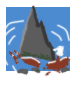
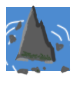
misc
1. refactor: instead of a bool "isWon", there is now an enum "GameState"
2. gameplay: instead of toggling the prevtile treasure when going
between two islands with treasure, it's the currenttile treasure
who is gonna be toggled
3. previously, hazard tiles would prevent moves; now, you can move
to an island with a hazard in its path, and this will wreck
the ship and lsoe the game
4. gameplay: add a "danger!" sprite on hazards tiles on path to
treasure islands

Changed region(s): [[0.1053, 0.4884, 0.9474, 0.8837], [0.1053, 0.3953, 0.2368, 0.5116], [0.1842, 0.2326, 0.2895, 0.3721]]

diff --git a/Board.cs b/Board.cs
@@ -5,6 +5,7 @@ using Godot;
 namespace Game
 {
   public enum Direction { Up, Down, Left, Right }
+  public enum GameState { Playing, Won, Lost }
 
   public partial class Board : Node2D
   {
@@ -12,6 +13,8 @@ namespace Game
     private int columns;
     [Export]
     private int rows;
+    [Export]
+    public Tile startingTile;
     [Export]
     public bool useBot = false;
     [Export]
@@ -22,7 +25,7 @@ namespace Game
     public int HammerType { get; set; }
 
     public bool IsReady { get; private set; } = false;
-    public bool IsWon { get; private set; } = false;
+    public GameState GameState { get; private set; } = GameState.Playing;
     public IEnumerable<Direction> Moves { get; private set; } = new List<Direction>();
 
     private Tile currentTile;
@@ -47,13 +50,14 @@ namespace Game
         return;
       }
 
-      PrepareBoard();
-
-      var tilesWithActiveTreasures = tilesWithTreasures.Where(t => t.HasActiveTreasure());
-      foreach (var tile in tilesWithActiveTreasures)
+      if (startingTile == null)
       {
-        tile.Select();
+        GD.PrintErr("Board must have a starting tile to be initialized.");
+        return;
       }
+
+      PrepareBoard();
+      startingTile.Dock();
     }
 
     public override void _Process(double delta)
@@ -64,7 +68,7 @@ namespace Game
         return;
       }
 
-      if (!IsReady || IsWon) return;
+      if (!IsReady || GameState != GameState.Playing) return;
       HandleInput();
     }
 
@@ -103,15 +107,21 @@ namespace Game
       {
         if (Input.IsActionJustPressed(itr.Key))
         {
-          var nextTile = currentTile.GetAdjacentTileWithTreasureInDirection(itr.Value);
+          var direction = itr.Value;
+          var nextTile = currentTile.GetTileWithTreasureInDirection(direction);
           if (nextTile == null) return;
-          Moves = Moves.Append(itr.Value);
 
-          // @warning: previously, it was previousTile.DeactivateTreasure(), but this doesn't work
-          // when it's the first move of the game, because previousTile is null.
-          // We'll have to verify that this doesn't break anything.
-          if (nextTile.HasActiveTreasure()) currentTile.DeactivateTreasure();
-          nextTile.Select();
+          Moves = Moves.Append(direction);
+
+          var hazardTile = currentTile.GetHazardTileInPath(direction, nextTile);
+          if (hazardTile != null)
+          {
+            hazardTile.Sunk();
+            Lose();
+            return;
+          }
+
+          nextTile.Dock();
 
           previousTile = currentTile;
         }
@@ -123,7 +133,7 @@ namespace Game
       var availableActions = new List<string>();
       foreach (var itr in actionToDirection)
       {
-        var nextTile = currentTile.GetAdjacentTileWithTreasureInDirection(itr.Value);
+        var nextTile = currentTile.GetTileWithTreasureInDirection(itr.Value);
         if (nextTile == null) continue;
         availableActions.Add(itr.Key);
       }
@@ -131,21 +141,39 @@ namespace Game
       return availableActions;
     }
 
-    public void CheckScore()
+    private void CheckScore()
     {
       var tilesWithActiveTreasures = tilesWithTreasures.Where(t => t.HasActiveTreasure());
       if (tilesWithActiveTreasures.Count() == tilesWithTreasures.Count())
       {
-        IsWon = true;
-
-        GD.Print("You won!");
-        string report = $"Moves ({Moves.Count()}): ";
-        for (int i = 0; i < Moves.Count(); i++)
-        {
-          report += Moves.ElementAt(i).ToString() + " / ";
-        }
-        GD.Print(report);
+        Win();
       }
+    }
+
+    private void Win()
+    {
+      GameState = GameState.Won;
+
+      GD.Print("You won!");
+      string report = $"Moves ({Moves.Count()}): ";
+      for (int i = 0; i < Moves.Count(); i++)
+      {
+        report += Moves.ElementAt(i).ToString() + " / ";
+      }
+      GD.Print(report);
+    }
+
+    private void Lose()
+    {
+      GameState = GameState.Lost;
+
+      GD.Print("You lost!");
+      string report = $"Moves ({Moves.Count()}): ";
+      for (int i = 0; i < Moves.Count(); i++)
+      {
+        report += Moves.ElementAt(i).ToString() + " / ";
+      }
+      GD.Print(report);
     }
 
     public int GetRows()
@@ -165,7 +193,7 @@ namespace Game
 
     private void OnTileSelected(Tile tile)
     {
-      currentTile?.Unselect();
+      currentTile?.Undock();
       currentTile = tile;
 
       // We don't want to check the score the first time a tile is selected,

diff --git a/Tile.cs b/Tile.cs
@@ -41,6 +41,7 @@ namespace Game
     private Board board;
     private Treasure treasure;
     private Sprite2D boat;
+    private Sprite2D danger;
     private Selector[] selectors;
     private TileState state = TileState.Unselected;
 
@@ -60,6 +61,7 @@ namespace Game
 
       selectors = GetChildren().OfType<Selector>().ToArray();
       boat = GetNode<Sprite2D>("Boat");
+      danger = GetNode<Sprite2D>("Danger");
 
       var hasTreasure = HasNode("Treasure");
 
@@ -112,20 +114,35 @@ namespace Game
       return null;
     }
 
-    public Tile GetAdjacentTileWithTreasureInDirection(Direction direction)
+    public Tile GetTileWithTreasureInDirection(Direction direction)
     {
       var adjacentTile = GetAdjacentTile(direction);
 
       if (adjacentTile == null) return null;
-      if (adjacentTile.IsBlocker()) return null;
-      if (!adjacentTile.HasTreasure()) return adjacentTile.GetAdjacentTileWithTreasureInDirection(direction);
+      if (board.useBot && adjacentTile.IsHazard()) return null;
+      if (!adjacentTile.HasTreasure()) return adjacentTile.GetTileWithTreasureInDirection(direction);
 
       return adjacentTile;
     }
 
-    public bool HasAdjacentTileWithTreasureInDirection(Direction direction)
+    public bool HasTileWithTreasureInDirection(Direction direction)
     {
-      return GetAdjacentTileWithTreasureInDirection(direction) != null;
+      return GetTileWithTreasureInDirection(direction) != null;
+    }
+    public Tile GetHazardTileInPath(Direction direction, Tile goalTile)
+    {
+      var adjacentTile = GetAdjacentTile(direction);
+
+      if (adjacentTile == null) return null;
+      if (adjacentTile == goalTile) return null;
+      if (adjacentTile.IsHazard()) return adjacentTile;
+
+      return adjacentTile.GetHazardTileInPath(direction, goalTile);
+    }
+
+    public bool HasTileWithHazardInDirection(Direction direction)
+    {
+      return GetHazardTileInPath(direction, null) != null;
     }
 
     public bool IsAdjacentTo(Tile tile)
@@ -155,14 +172,14 @@ namespace Game
       return isOnBorder;
     }
 
+    public bool IsHazard()
+    {
+      return Type == TileType.Wreck;
+    }
+
     public bool HasTreasure()
     {
       return treasure != null;
-    }
-
-    public bool IsBlocker()
-    {
-      return Type == TileType.Wreck;
     }
 
     public bool HasActiveTreasure()
@@ -170,26 +187,61 @@ namespace Game
       return treasure != null && treasure.IsActive();
     }
 
-    public void Select()
+    public void Dock()
     {
+      SurveyHazards();
+
       state = TileState.Selected;
-      treasure.Activate();
+      treasure.Toggle();
       boat.Visible = true;
 
       EmitSignal(SignalName.TileSelected, this);
     }
 
-    public void Unselect()
+    public void Undock()
     {
+      SurveyHazards();
+
       state = TileState.Unselected;
       boat.Visible = false;
 
       EmitSignal(SignalName.TileUnselected, this);
     }
 
+    public void Sunk()
+    {
+      state = TileState.Selected;
+
+      boat.Visible = true;
+      boat.Texture = ResourceLoader.Load<Texture2D>("res://assets/gameplay/wreck_standard.png");
+      boat.Position = new Vector2(0, 20);
+      boat.Scale = new Vector2(1, 1);
+
+      EmitSignal(SignalName.TileSelected, this);
+    }
+
     public void DeactivateTreasure()
     {
       treasure.Deactivate();
+    }
+
+    public void SurveyHazards()
+    {
+      foreach (Direction direction in Enum.GetValues(typeof(Direction)))
+      {
+        var nextTreasureTile = GetTileWithTreasureInDirection(direction);
+        if (nextTreasureTile == null) continue;
+
+        var nextHazardTile = GetHazardTileInPath(direction, nextTreasureTile);
+        if (nextHazardTile == null) continue;
+
+        nextHazardTile.ToggleDangerVisibility();
+      }
+    }
+
+    public void ToggleDangerVisibility()
+    {
+      danger.Visible = !danger.Visible;
     }
   }
 }

diff --git a/Treasure.cs b/Treasure.cs
@@ -39,24 +39,29 @@ namespace Game
       else { Activate(); }
     }
 
+    public void Toggle()
+    {
+      if (state == TreasureState.Active) { Deactivate(); }
+      else { Activate(); }
+    }
+
     public void Activate()
     {
       state = TreasureState.Active;
+      Visible = true;
 
-      if (Engine.IsEditorHint())
+      if (Engine.IsEditorHint() && sprite != null)
       {
         sprite.Modulate = new Color(1, 1, 1, 1f);
         return;
       }
-
-      Visible = true;
     }
 
     public void Deactivate()
     {
       state = TreasureState.Inactive;
 
-      if (Engine.IsEditorHint())
+      if (Engine.IsEditorHint() && sprite != null)
       {
         sprite.Modulate = new Color(0.5f, 0.5f, 0.5f, 0.5f);
         return;

diff --git a/Selector.cs b/Selector.cs
@@ -23,7 +23,8 @@ namespace Game
     public void OnTileSelected(Tile _tile)
     {
       if (tile.IsOnBorder(direction)) return;
-      if (!tile.HasAdjacentTileWithTreasureInDirection(direction)) return;
+      if (tile.IsHazard()) return;
+      if (!tile.HasTileWithTreasureInDirection(direction)) return;
       Visible = true;
     }
 

diff --git a/Bot.cs b/Bot.cs
@@ -43,7 +43,7 @@ namespace Game
       if (disabled) return;
       if (!board.IsReady || (delay > 0 && !timer.IsStopped())) return;
 
-      if (board.IsWon)
+      if (board.GameState == GameState.Won)
       {
         Text = "Board complete! Moves (" + board.Moves.Count() + "): \n";
 
